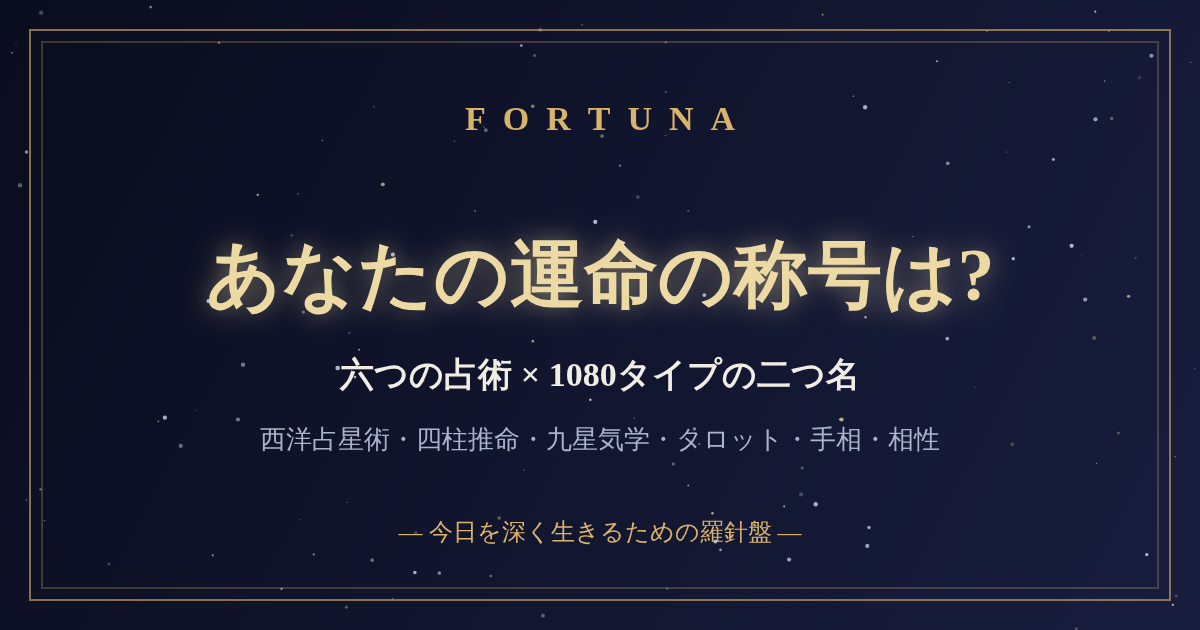
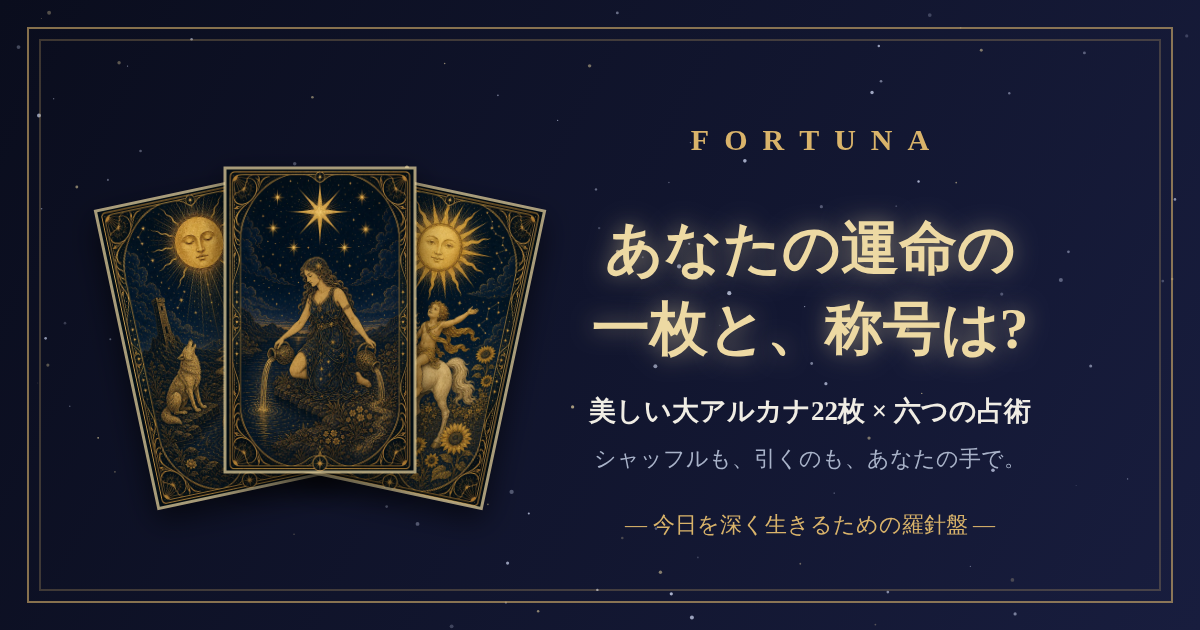
裏面画像の組み込みとタロット主役化のサイト刷新
裏面: tarrot_back.png を最適化(1.9MB→161KB webp)して組み込み。
シャッフルの束・カットの山・ドローの扇すべてが実デザインに切り替わった。

タロット主役化(カードアートの活用):
- ホームFVに実カード3枚(月・星・太陽)の浮遊する扇を追加、
  メインCTAを「今日の一枚を引く(無料)」に変更
- 六つの扉の主役カードをタロットに変更(運命の輪のアートを背景に)
- タロット結果の各ポジションカードにカードアートのサムネイルを表示(逆位置は回転)
- 会員FVに「今日の一枚」チップ(引いた札のサムネ付き/未引ならCTA)
- OGP画像を実カードの扇入りで再生成(「あなたの運命の一枚と、称号は?」)

Claude-Session: https://claude.ai/code/session_0196G2ZJb6r42LP6wmbHvM3B

Changed region(s): [[0.0, 0.0302, 0.9867, 0.9651], [0.37, 0.1508, 0.7708, 0.2413]]

diff --git a/index.html b/index.html
@@ -59,9 +59,14 @@
           <p class="hero-eyebrow">INTEGRATED DIVINATION</p>
           <h1 class="hero-title">星が語り、暦が導き、<br />カードが<em>背中を押す</em>。</h1>
           <p class="hero-sub">西洋占星術・四柱推命・九星気学・タロット・手相・相性。<br class="pc-only" />六つの占術をひとつに束ねて、今日のあなたに必要な言葉を届けます。</p>
+          <div class="hero-fan" aria-hidden="true">
+            <img src="images/tarot/tarot_18_moon.webp" alt="" loading="lazy" style="--r:-13deg;--d:0s" onerror="this.parentElement.remove()" />
+            <img src="images/tarot/tarot_17_star.webp" alt="" loading="lazy" style="--r:0deg;--d:.7s" />
+            <img src="images/tarot/tarot_19_sun.webp" alt="" loading="lazy" style="--r:13deg;--d:1.4s" />
+          </div>
           <div class="hero-cta">
-            <button class="btn btn-primary btn-lg" data-nav="integrated">統合鑑定をはじめる</button>
-            <button class="btn btn-ghost btn-lg" data-nav="tarot">今日の一枚を引く</button>
+            <button class="btn btn-primary btn-lg" data-nav="tarot">今日の一枚を引く(無料)</button>
+            <button class="btn btn-ghost btn-lg" data-nav="integrated">統合鑑定をはじめる</button>
           </div>
           <p class="hero-register-hint"><button data-nav="mypage">無料登録(30秒)</button>すると、開くたびに今日のあなたの運勢がここに表示されます</p>
         </div>
@@ -77,12 +82,17 @@
       </div>
 
       <div class="bento">
-        <button class="bento-card bento-main" data-nav="integrated" style="--hue:#d9b36a">
-          <span class="bento-glyph">✦</span>
+        <button class="bento-card bento-main bento-art" data-nav="tarot" style="--hue:#e879a6">
           <span class="bento-tag">いちばん人気</span>
+          <h3>タロット</h3>
+          <p>シャッフルも、カットも、引くのもあなたの手。本物の手順の儀式フローで、美しい大アルカナ22枚が答えます。</p>
+          <span class="bento-link">今日の一枚を引く(30秒) →</span>
+        </button>
+        <button class="bento-card" data-nav="integrated" style="--hue:#d9b36a">
+          <span class="bento-glyph">✦</span>
           <h3>統合鑑定</h3>
-          <p>生年月日から六つの占術を横断して、いまのあなたへの答えをひとつのレポートに。運気スコア、導きの一枚、開運キーまで。</p>
-          <span class="bento-link">3分で受けられます →</span>
+          <p>六つの占術を横断して、運命の称号と今日の答えを。</p>
+          <span class="bento-link">→</span>
         </button>
         <button class="bento-card" data-nav="western" style="--hue:#8b7cf6">
           <span class="bento-glyph">星</span>
@@ -94,12 +104,6 @@
           <span class="bento-glyph">暦</span>
           <h3>東洋占術</h3>
           <p>四柱推命と九星気学。生まれ持った器を知る。</p>
-          <span class="bento-link">→</span>
-        </button>
-        <button class="bento-card" data-nav="tarot" style="--hue:#e879a6">
-          <span class="bento-glyph">札</span>
-          <h3>タロット</h3>
-          <p>大アルカナ22枚。いま必要なメッセージを引く。</p>
           <span class="bento-link">→</span>
         </button>
         <button class="bento-card" data-nav="palm" style="--hue:#5eead4">

diff --git a/css/style.css b/css/style.css
@@ -176,6 +176,23 @@ button { font-family: inherit; cursor: pointer; color: inherit; }
 }
 .hero-cta { display: flex; gap: 14px; justify-content: center; margin-top: 36px; flex-wrap: wrap; }
 
+/* FVのカード扇 */
+.hero-fan { display: flex; justify-content: center; margin: 30px 0 -6px; }
+.hero-fan img {
+  width: 116px; height: 186px; object-fit: cover; border-radius: 9px;
+  border: 1px solid rgba(217, 179, 106, 0.55);
+  box-shadow: 0 16px 40px rgba(0, 0, 0, 0.55), 0 0 26px rgba(217, 179, 106, 0.18);
+  margin: 0 -16px;
+  transform: rotate(var(--r)) translateY(calc(var(--r) * 0.6));
+  animation: fanFloat 5s ease-in-out infinite;
+  animation-delay: var(--d);
+}
+.hero-fan img:nth-child(2) { z-index: 2; }
+@keyframes fanFloat {
+  0%, 100% { translate: 0 0; }
+  50% { translate: 0 -10px; }
+}
+
 /* 会員向けパーソナルFV */
 .hero.hero-member { min-height: min(60vh, 540px); }
 .nw { white-space: nowrap; }
@@ -300,6 +317,21 @@ button { font-family: inherit; cursor: pointer; color: inherit; }
 }
 .bento-wide { grid-column: 1 / -1; flex-direction: column; }
 .bento-wide p { max-width: 46ch; }
+
+/* タロット主役カード(実アート背景) */
+.bento-art {
+  min-height: 300px;
+  background:
+    linear-gradient(78deg, rgba(10, 13, 29, 0.95) 30%, rgba(10, 13, 29, 0.55) 62%, rgba(10, 13, 29, 0.12)),
+    url("../images/tarot/tarot_10_wheel_of_fortune.webp") right 24% / cover no-repeat;
+}
+.bento-art:hover {
+  background:
+    linear-gradient(78deg, rgba(10, 13, 29, 0.92) 30%, rgba(10, 13, 29, 0.45) 62%, rgba(10, 13, 29, 0.05)),
+    url("../images/tarot/tarot_10_wheel_of_fortune.webp") right 22% / cover no-repeat;
+}
+.bento-art h3 { font-size: 28px; }
+.bento-art p { max-width: 30ch; font-size: 14.5px; }
 
 /* ---------- フィロソフィー ---------- */
 .philosophy { text-align: center; margin: 96px auto 24px; max-width: 640px; }
@@ -653,6 +685,24 @@ button { font-family: inherit; cursor: pointer; color: inherit; }
 @media (prefers-reduced-motion: reduce) {
   .fan-card { animation: none; }
 }
+
+/* 結果カードのサムネイル */
+.tp-body { display: flex; gap: 16px; align-items: flex-start; }
+.tp-thumb {
+  flex: 0 0 78px; width: 78px; height: 126px; object-fit: cover;
+  border-radius: 7px; border: 1px solid rgba(217, 179, 106, 0.5);
+  box-shadow: 0 6px 18px rgba(0, 0, 0, 0.45);
+}
+.tp-thumb.is-rev { transform: rotate(180deg); }
+
+/* 会員FVの今日の一枚チップ */
+.chip-card { display: inline-flex; align-items: center; gap: 8px; }
+.chip-card img {
+  width: 24px; height: 38px; object-fit: cover; border-radius: 3px;
+  border: 1px solid rgba(217, 179, 106, 0.5);
+}
+.chip-card img.is-rev { transform: rotate(180deg); }
+.chip-cta { border-color: rgba(217, 179, 106, 0.55); color: var(--gold-bright); cursor: pointer; }
 
 /* ---------- タロット儀式フロー ---------- */
 .ritual-step { text-align: center; animation: viewIn .5s ease; }

diff --git a/js/app.js b/js/app.js
@@ -352,6 +352,12 @@ function renderHomeDaily() {
       <span><span class="hs-num">${daily.score100}</span><span class="hs-denom"> /100</span></span>
       ${starsHtml(Math.round(daily.total))}
       <span class="chip">「${daily.dayStar.name}」の日</span>
+      ${(() => {
+        const dc = loadDailyCard();
+        if (!dc) return '<button class="chip chip-cta" data-nav="tarot">今日の一枚 まだ引いていません →</button>';
+        const base = TAROT.find((t) => t.n === dc.n);
+        return `<span class="chip chip-card"><img src="${tarotImg(dc.n)}" alt="" class="${dc.reversed ? "is-rev" : ""}" onerror="this.remove()" />今日の一枚 <strong>${base.name}</strong></span>`;
+      })()}
       <span class="chip">ラッキーカラー <strong>${daily.luckyColor}</strong></span>
       <span class="chip">連続 <strong>${visits.streak || 1}日目</strong>${(visits.streak || 1) >= 7 ? " 🔥" : ""}</span>
     </div>
@@ -1370,11 +1376,16 @@ function showTarotSummary(restored) {
   }
 
   const items = ritual.cards.map((c, i) => `
-    <div class="result-card">
+    <div class="result-card tarot-pos">
       ${cardH4(conf.positions[i].en, conf.positions[i].ja)}
-      <p><strong style="color:var(--gold-bright)">${c.name}(${c.reversed ? "逆位置" : "正位置"})</strong></p>
-      <p style="margin-top:8px">${genreMeaning(c)}</p>
-      <p class="sub" style="margin-top:12px">${c.advice}</p>
+      <div class="tp-body">
+        <img class="tp-thumb ${c.reversed ? "is-rev" : ""}" src="${tarotImg(c.n)}" alt="${c.name}" loading="lazy" onerror="this.remove()" />
+        <div>
+          <p><strong style="color:var(--gold-bright)">${c.name}(${c.reversed ? "逆位置" : "正位置"})</strong></p>
+          <p style="margin-top:6px">${genreMeaning(c)}</p>
+          <p class="sub" style="margin-top:10px">${c.advice}</p>
+        </div>
+      </div>
     </div>`).join("");
 
   const dailyNote = conf.once ? `
